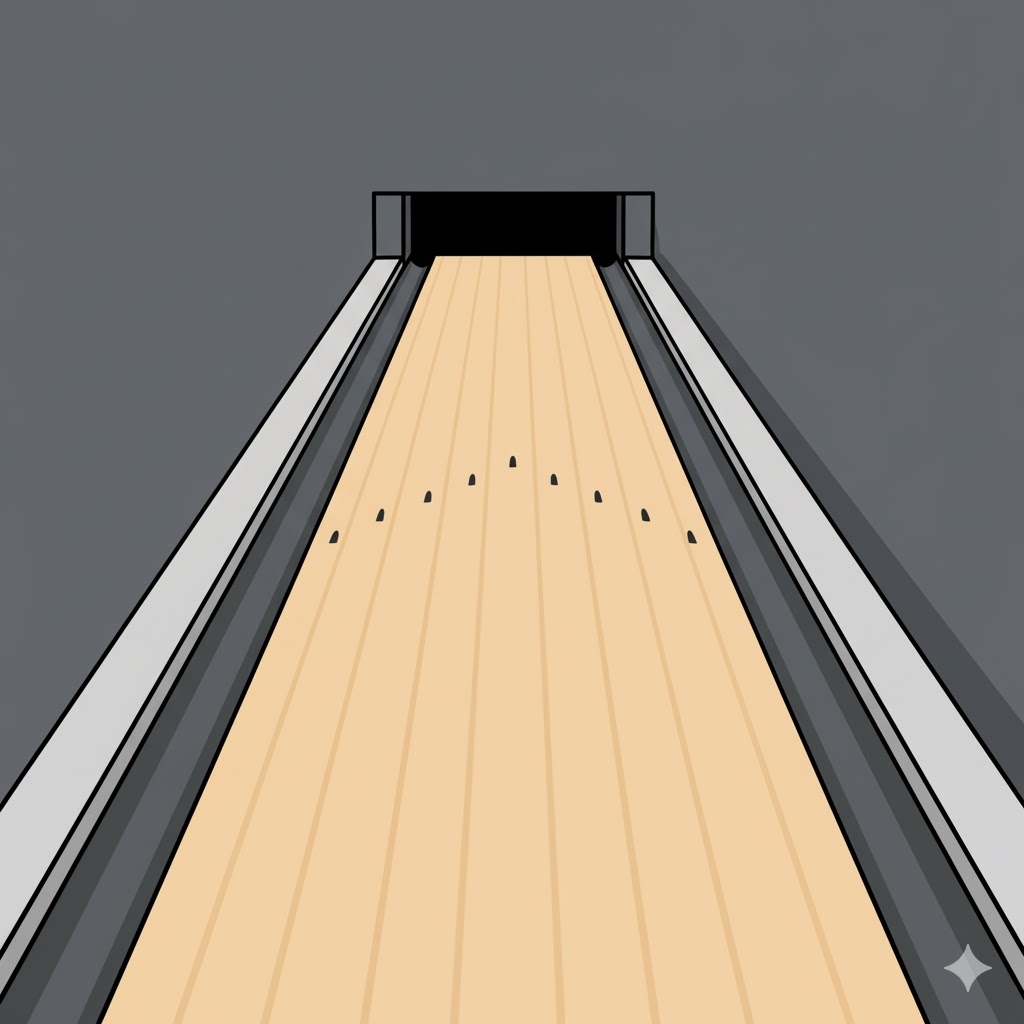
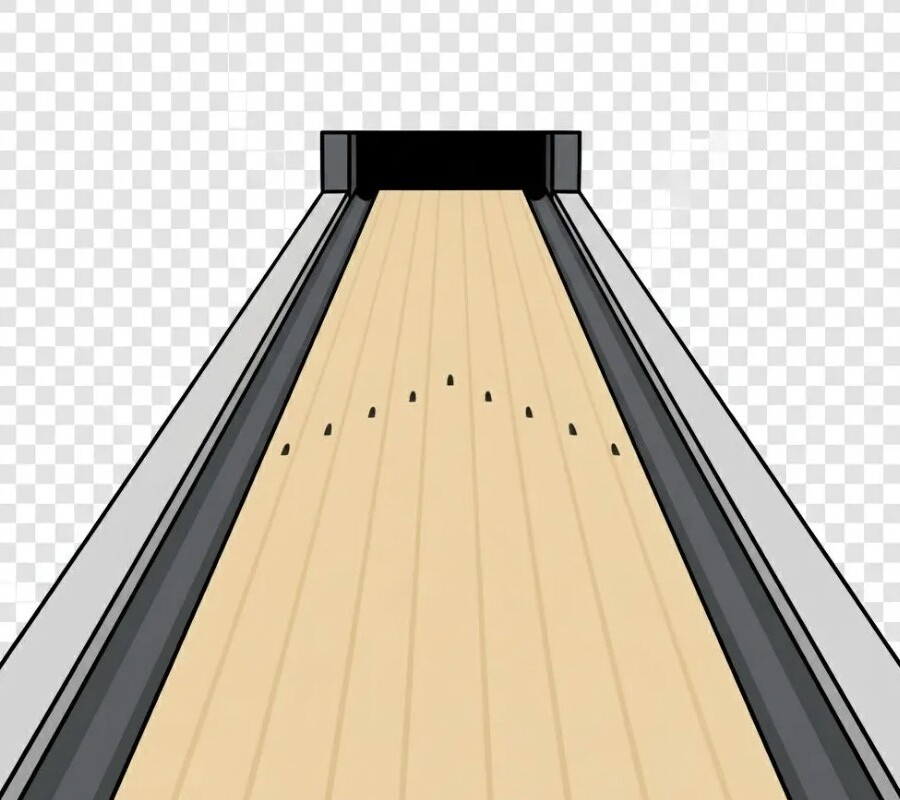
trying to add background color

diff --git a/src/gui/BowlingScreen.java b/src/gui/BowlingScreen.java
@@ -1,21 +1,15 @@
 package gui;
 
 import java.awt.Color;
-import java.awt.Graphics;
 import java.awt.geom.*;
 import java.awt.image.BufferedImage;
 import java.io.IOException;
-
-import bowling.GameState;
-import bowling.ScoreBoard;
+import bowling.*;
 import bowlingSprites.*;
-import bowlingVisual.BowlingLaneReader;
-import bowlingVisual.ScoreBoardReader;
+import bowlingVisual.*;
 import io.ResourceFinder;
 import visual.dynamic.described.*;
-import visual.statik.sampled.*;
 import resources.Marker;
-
 
 public class BowlingScreen extends Stage
 {
@@ -23,16 +17,15 @@ public class BowlingScreen extends Stage
   public BowlingScreen(final int timeStep)
   {
     super(timeStep);
-    Content lane = buildLane();
+    add(buildBackground());
+    visual.statik.sampled.Content lane = buildLane();
     add(lane);
     ScoreBoard scoreboard = buildScoreBoard();
-    add(lane);
+    add(scoreboard);
     BowlingGutter bowlingGutter = buildGutter();
     add(bowlingGutter);
-    add(scoreboard);
-    add(new BowlingBall());
-    // for (BowlingPin p : makePins())
-    // add(p);
+    BowlingBall ball = new BowlingBall();
+    add(ball);
   }
 
   private ScoreBoard buildScoreBoard()
@@ -40,41 +33,37 @@ public class BowlingScreen extends Stage
     GameState gameState = new GameState();
     ResourceFinder finder = ResourceFinder.createInstance(new Marker());
     ScoreBoardReader reader = new ScoreBoardReader(finder);
-    Point2D location = new Point2D.Double(255,10);
+    Point2D location = new Point2D.Double(255, 10);
     ScoreBoard scoreboard = null;
     try
-    { 
+    {
       scoreboard = new ScoreBoard(gameState, reader.read(), Color.blue, location);
     }
     catch (IOException e)
     {
       e.printStackTrace();
-    }    
+    }
     return scoreboard;
   }
 
-  private BowlingGutter buildGutter() {
+  private BowlingGutter buildGutter()
+  {
     return null;
-    
   }
-  
-  
-  
-  private Content buildLane()
+
+  private visual.statik.sampled.Content buildLane()
   {
     ResourceFinder finder = ResourceFinder.createInstance(new Marker());
-    BowlingLaneReader reader = new BowlingLaneReader(finder);;
-    Content content = null;
+    BowlingLaneReader reader = new BowlingLaneReader(finder);
+    visual.statik.sampled.Content content = null;
     double width = 0;
     double height = 0;
     try
     {
-      
       BufferedImage image = reader.read();
       width = 1000.0 / image.getWidth();
       height = 1000.0 / image.getHeight();
-
-      content = new Content(image, 0, 0);
+      content = new visual.statik.sampled.Content(image, 0, 0);
     }
     catch (IOException e)
     {
@@ -83,24 +72,16 @@ public class BowlingScreen extends Stage
     content.setScale(width, height);
     return content;
   }
-  //
-  // private BowlingPin[] makePins()
-  // {
-  // BowlingPin[] arr = new BowlingPin[10];
-  // double x = 507;
-  // double y = 280;
-  // arr[0] = new BowlingPin(x, y);
-  // arr[1] = new BowlingPin(x - 20, y - 20);
-  // arr[2] = new BowlingPin(x + 20, y - 20);
-  // arr[3] = new BowlingPin(x - 40, y - 40);
-  // arr[4] = new BowlingPin(x, y - 40);
-  // arr[5] = new BowlingPin(x + 40, y - 40);
-  // arr[6] = new BowlingPin(x - 45, y - 60);
-  // arr[7] = new BowlingPin(x - 25, y - 60);
-  // arr[8] = new BowlingPin(x + 25, y - 60);
-  // arr[9] = new BowlingPin(x + 45, y - 60);
-  // return arr;
-  // }
+
+  private visual.statik.described.Content buildBackground()
+  {
+    Rectangle2D.Double rect = new Rectangle2D.Double(0, 0, 1024, 900);
+    visual.statik.described.Content bg = new visual.statik.described.Content();
+    bg.setShape(rect);
+    bg.setPaint(Color.lightGray);
+    bg.setStroke(null);
+    return bg;
+  }
 
   @Override
   public void handleTick(int time)

diff --git a/src/bowling/ScoreBoard.java b/src/bowling/ScoreBoard.java
@@ -1,11 +1,7 @@
 package bowling;
 
-import java.awt.Color;
-import java.awt.Graphics;
-import java.awt.Graphics2D;
-import java.awt.Image;
+import java.awt.*;
 import java.awt.geom.Point2D;
-import java.awt.image.BufferedImage;
 import java.io.IOException;
 import visual.statik.SimpleContent;
 
@@ -16,7 +12,8 @@ public class ScoreBoard implements SimpleContent, BowlingObserver
   protected Point2D location;
   private GameState gameState;
 
-  public ScoreBoard(GameState gameState, Image image, Color color, Point2D location) throws IOException
+  public ScoreBoard(GameState gameState, Image image, Color color, Point2D location)
+      throws IOException
   {
     this.color = color;
     this.location = location;
@@ -28,7 +25,6 @@ public class ScoreBoard implements SimpleContent, BowlingObserver
   @Override
   public void reset()
   {
-    
   }
 
   @Override
@@ -42,17 +38,12 @@ public class ScoreBoard implements SimpleContent, BowlingObserver
   public void render(Graphics g)
   {
     Graphics2D g2 = (Graphics2D) g;
-
     Color oldColor = g2.getColor();
     g2.setColor(color);
-    
     double width = 1000;
     double height = 100;
-
     g2.drawImage(image, (int) 0, (int) 0, (int) width, (int) height, null);
-
     g2.setColor(oldColor);
-    
   }
 
 }

diff --git a/src/bowling/ScoreboardWriter.java b/src/bowling/ScoreboardWriter.java
@@ -1,16 +1,11 @@
 package bowling;
 
-import java.awt.Font;
-import java.awt.Graphics2D;
-import java.awt.Image;
+import java.awt.*;
 import java.awt.font.FontRenderContext;
-import java.awt.geom.Point2D;
-import java.awt.geom.Rectangle2D;
-import java.awt.image.BufferedImage;
+import java.awt.geom.*;
 
 public class ScoreboardWriter
 {
-  
   private static final Font FONT = new Font(Font.SANS_SERIF, Font.PLAIN, 14);
 
   /**
@@ -24,13 +19,11 @@ public class ScoreboardWriter
   public static void renderScore(Point2D location, int score, Graphics2D g2, Image image)
   {
     String text = Integer.toString(score);
-    
     FontRenderContext frc = g2.getFontRenderContext();
     Rectangle2D textBounds = FONT.getStringBounds(text, frc);
     double x = location.getX() - textBounds.getWidth() / 2.0;
     double y = location.getY() + image.getHeight(null) / 2.0 + textBounds.getHeight();
     g2.drawString(text, (float) x, (float) y);
-
   }
 
   public void reset()

diff --git a/src/app/BowlingApplication.java b/src/app/BowlingApplication.java
@@ -2,13 +2,11 @@ package app;
 
 import java.awt.event.*;
 import gui.*;
-import visual.*;
 
 public class BowlingApplication extends JApplication implements ActionListener
 {
-  public static final int WIDTH  = 1000;
-  public static final int HEIGHT = 800;
-
+  public static final int WIDTH = 1000;
+  public static final int HEIGHT = 900;
   private BowlingScreen screen;
 
   public BowlingApplication(String[] args)
@@ -26,11 +24,9 @@ public class BowlingApplication extends JApplication implements ActionListener
   @Override
   public void init()
   {
-    
     screen.getView().setBounds(0, 0, WIDTH, HEIGHT);
     getContentPane().add(screen.getView());
     screen.getView().setVisible(true);
-
     screen.start();
     getContentPane().revalidate();
     getContentPane().repaint();

diff --git a/src/bowlingSprites/BowlingPin.java b/src/bowlingSprites/BowlingPin.java
@@ -1,25 +1,7 @@
 package bowlingSprites;
 
-//import java.awt.*;
-//import java.awt.geom.*;
 import visual.dynamic.described.*;
-//import visual.statik.described.*;
 
 public class BowlingPin extends DescribedSprite
 {
-  // public BowlingPin(double x, double y)
-  // {
-  // AggregateContent c = new AggregateContent();
-  // Content body = new Content();
-  // body.setShape(new Rectangle2D.Double(507, 280, 12, 35));
-  // body.setPaint(Color.WHITE);
-  // Content stripe = new Content();
-  // stripe.setShape(new Rectangle2D.Double(507, 290, 12, 4));
-  // stripe.setPaint(Color.RED);
-  // c.add(body);
-  // c.add(stripe);
-  // addKeyTime(0, new Point2D.Double(x, y), 0.0, 1.0, c);
-  // addKeyTime(1, new Point2D.Double(x, y), 0.0, 1.0, c);
-  // }
-
 }

diff --git a/src/bowlingSprites/BowlingGutter.java b/src/bowlingSprites/BowlingGutter.java
@@ -1,21 +1,7 @@
 package bowlingSprites;
 
-//import java.awt.*;
-//import java.awt.geom.*;
 import visual.dynamic.described.*;
-//import visual.statik.described.*;
 
 public class BowlingGutter extends DescribedSprite
 {
-//  public BowlingGutter(double x, double y, double w, double h)
-//  {
-//    AggregateContent c = new AggregateContent();
-//    Content shape = new Content();
-//    shape.setShape(new Rectangle2D.Double(x, y, w, h));
-//    shape.setPaint(Color.BLACK);
-//    c.add(shape);
-//    addKeyTime(0, new Point2D.Double(0, 0), 0.0, 1.0, c);
-//    addKeyTime(1, new Point2D.Double(0, 0), 0.0, 1.0, c);
-//  }
-
 }

diff --git a/src/bowling/GameState.java b/src/bowling/GameState.java
@@ -1,7 +1,6 @@
 package bowling;
 
-import java.util.ArrayList;
-import java.util.List;
+import java.util.*;
 
 public class GameState implements BowlingSubject
 {
@@ -39,10 +38,11 @@ public class GameState implements BowlingSubject
     }
   }
 
-  public void totalScore(int pins) {
+  public void totalScore(int pins)
+  {
     this.totalScore += pins;
   }
-  
+
   public void addScore(int pins)
   {
     score += pins;

diff --git a/src/bowling/GameTheme.java b/src/bowling/GameTheme.java
@@ -2,19 +2,21 @@ package bowling;
 
 public class GameTheme
 {
-  public GameTheme() {
-    
+
+  public GameTheme()
+  {
   }
-  
-  public void setBackgroundColor() {
-    
+
+  public void setBackgroundColor()
+  {
   }
-  
-  public void setBallColor() {
-    
+
+  public void setBallColor()
+  {
   }
-  
-  public void setPinColor() {
-    
+
+  public void setPinColor()
+  {
   }
+
 }

diff --git a/src/bowlingSprites/BowlingBall.java b/src/bowlingSprites/BowlingBall.java
@@ -19,6 +19,5 @@ public class BowlingBall extends DescribedSprite
     addKeyTime(0, new Point2D.Double(0, 0), 0.0, 1.0, agg);
     addKeyTime(1, new Point2D.Double(0, 0), 0.0, 1.0, agg);
   }
-  
 
 }
